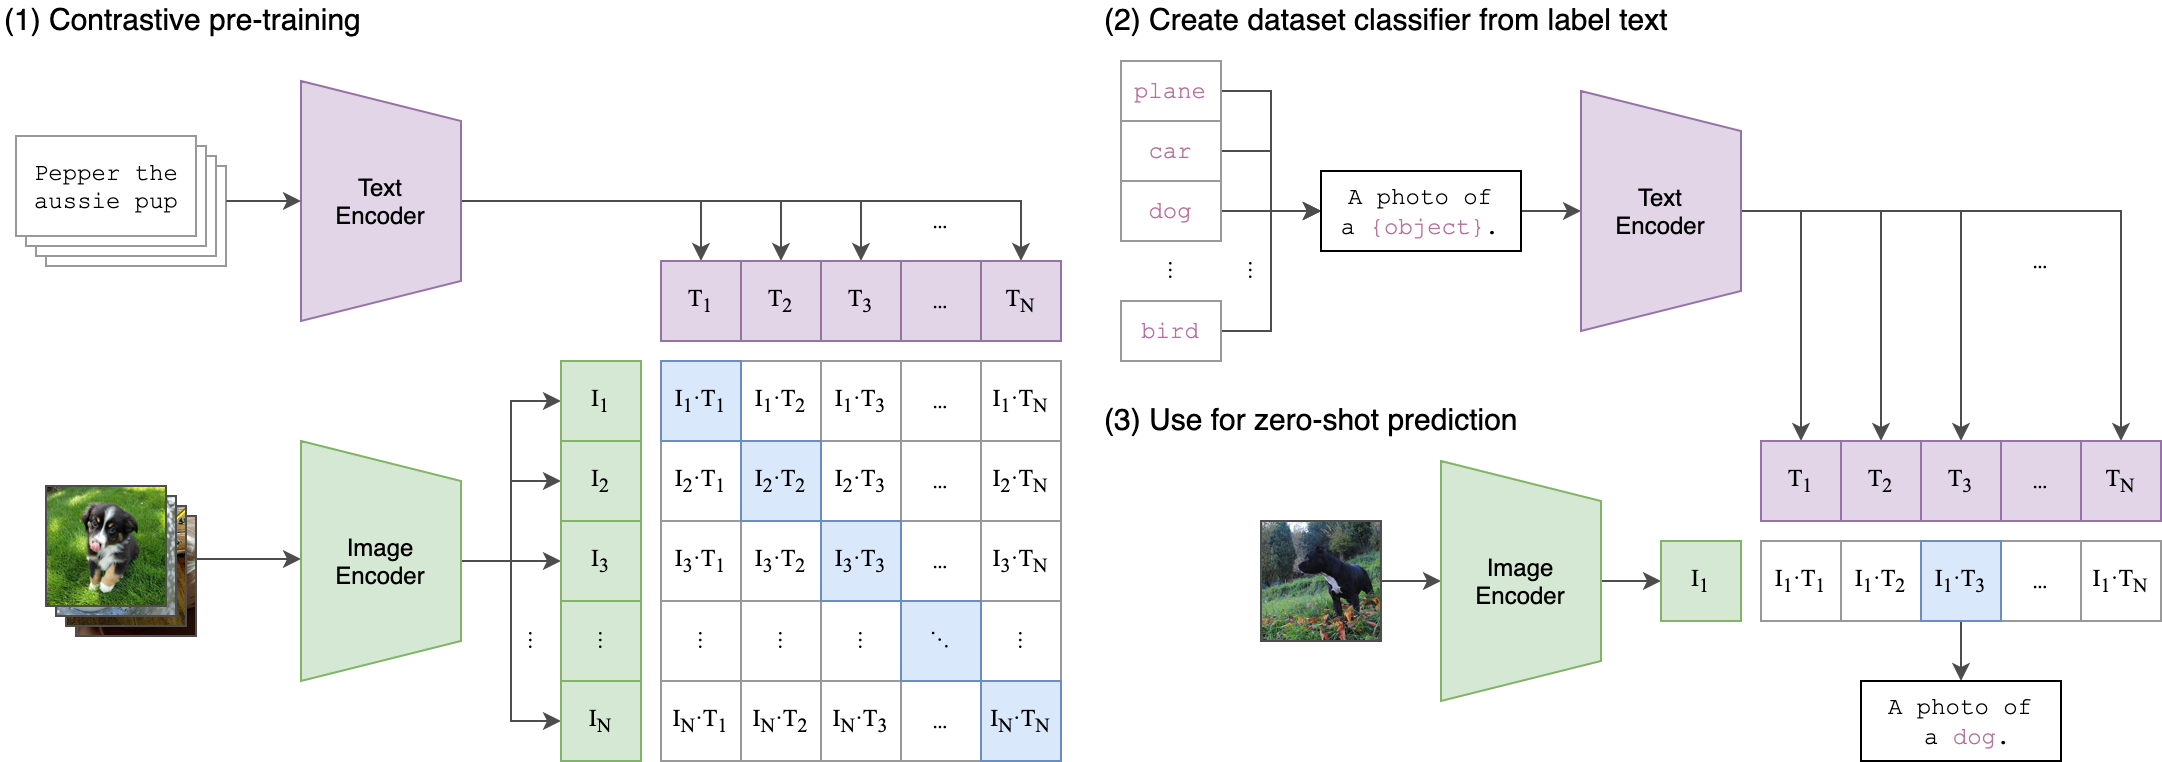
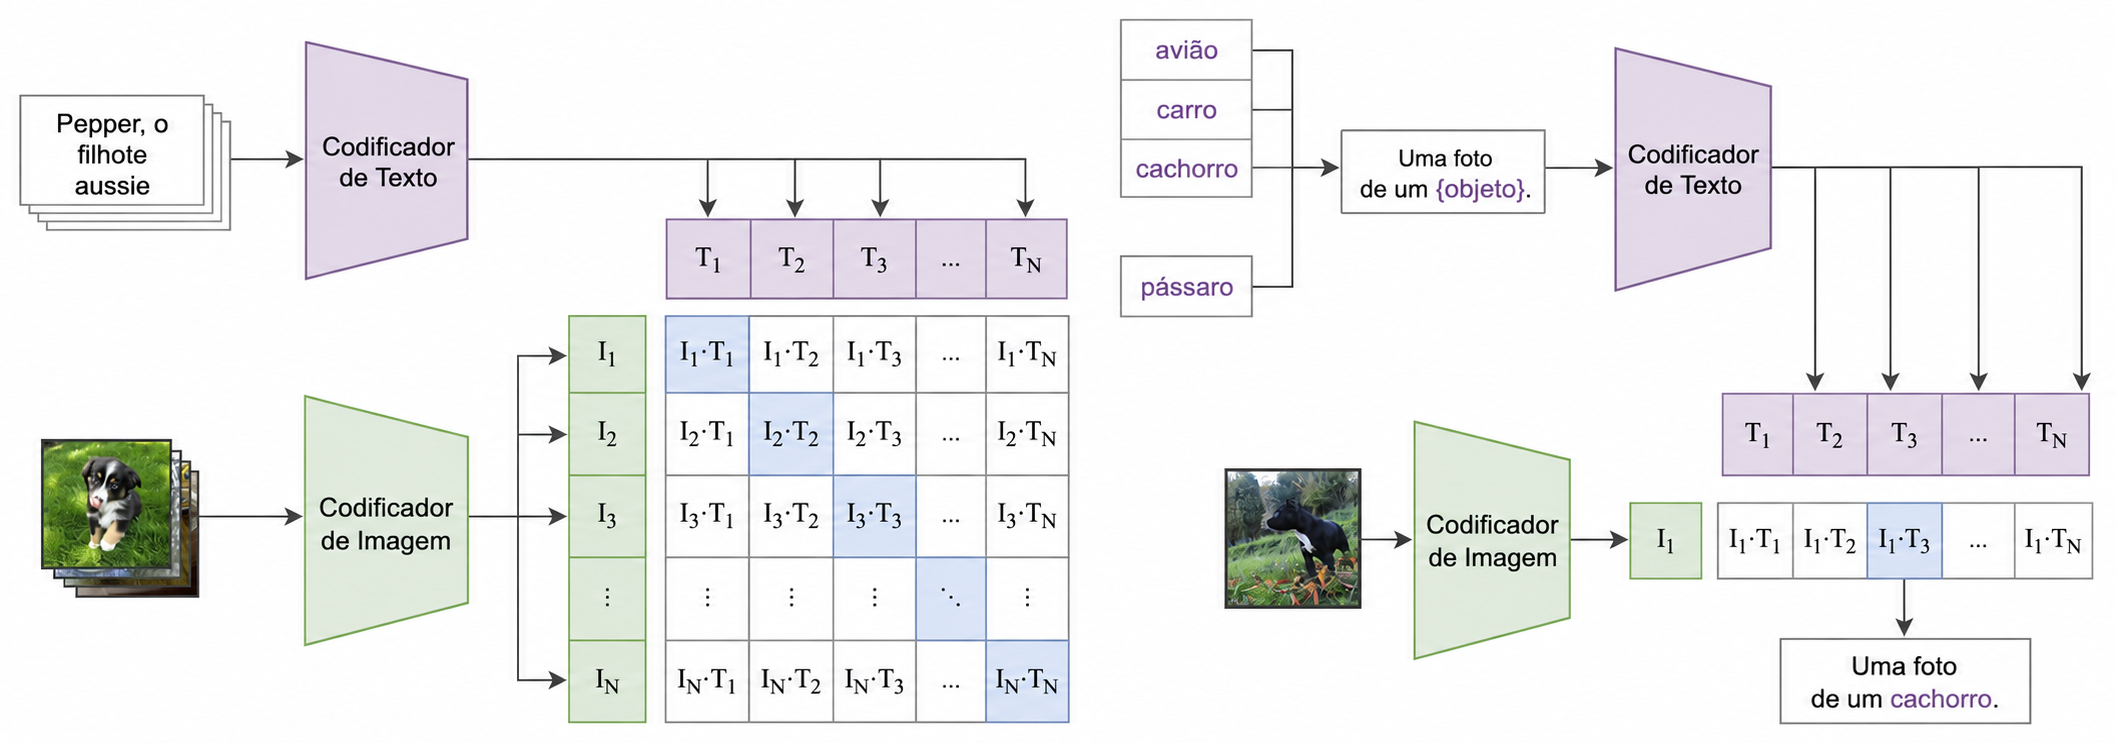
translate imgs

Changed region(s): [[0.0, 0.2476, 1.0, 1.0], [0.4991, 0.0, 0.9981, 0.4334], [0.0, 0.0, 0.4679, 0.4334]]

diff --git a/latex/cap2revisaobibliografica.tex b/latex/cap2revisaobibliografica.tex
@@ -238,9 +238,9 @@ Mais recentemente, o \textit{Vision Transformer} (ViT) \cite{dosovitskiy2021} tr
 	\centering
 	\caption{Arquitetura do \textit{Vision Transformer}.}
 	\label{fig:vit-arch}
-	\includegraphics[scale=0.5]{imagens/vit.png}
+	\includegraphics[scale=0.3]{imagens/vit.png}
 	\par\vspace{2pt}
-	{\footnotesize Fonte: \citeonline{dosovitskiy2021}.}
+	{\footnotesize Fonte: Adaptado de \citeonline{dosovitskiy2021}.}
 \end{figure*}
 
 A Figura~\ref{fig:vit-arch} ilustra a arquitetura do ViT. O processo inicia-se com a divisão da imagem de entrada em \textit{patches} retangulares de tamanho fixo, que são linearizados e projetados em vetores de dimensão constante por meio de uma projeção linear. A cada vetor resultante é somado um \textit{embedding} de posição, que codifica a localização espacial de cada \textit{patch} na imagem original, preservando assim a informação posicional que seria perdida após a linearização. Concatena-se um \textit{token} especial, representado pela posição 0, que não corresponde a nenhuma região da imagem, mas percorre todo o \textit{encoder} acumulando uma representação global da entrada, cuja representação final será utilizada para a classificação. 
@@ -265,9 +265,9 @@ O VisualBERT \cite{visualbert2019} foi um marco ao fundir representações visua
 	\centering
 	\caption{Arquitetura do VisualBERT.}
 	\label{fig:visualbert-arch}
-	\includegraphics[scale=0.32]{imagens/visualbert.png}
+	\includegraphics[scale=0.21]{imagens/visualbert.png}
 	\par\vspace{2pt}
-	{\footnotesize Fonte: \citeonline{visualbert2019}.}
+	{\footnotesize Fonte: Adaptado de \citeonline{visualbert2019}.}
 \end{figure*}
 
 Enquanto o VisualBERT utiliza a fusão precoce, integrando texto e imagem diretamente em um único \textit{Transformer}, o CLIP (\textit{Contrastive Language-Image Pre-training}) \cite{clip2021} adota a fusão tardia, processando cada modalidade separadamente antes de alinhar suas representações. O CLIP não é um modelo único, mas sim um \textit{framework} de aprendizado multimodal, com dois \textit{encoders} independentes, um visual em arquiteturas como o ViT, e outro textual, baseado na arquitetura \textit{Transformer}.
@@ -280,7 +280,7 @@ O CLIP foi treinado com aproximadamente 400 milhões de pares de imagem e texto 
 	\label{fig:clip-pipeline}
 	\includegraphics[scale=0.2]{imagens/CLIP.png}
 	\par\vspace{2pt}
-	{\footnotesize Fonte: \citeonline{clip2021}.}
+	{\footnotesize Fonte: Adaptado de \citeonline{clip2021}.}
 \end{figure*}
 
 A Figura~\ref{fig:clip-pipeline} ilustra o \textit{pipeline} do CLIP em duas fases. Na \textbf{Fase 1 (Pré-treinamento Contrastivo)}, pares de imagem e texto são processados simultaneamente, onde as imagens passam pelo \textit{Image Encoder}, que as converte em vetores de representação, enquanto as descrições textuais associadas passam pelo \textit{Text Encoder}, produzindo vetores no mesmo espaço latente. O treinamento otimiza a similaridade cosseno dos pares corretos, maximizando-a na diagonal da matriz de similaridade, enquanto penaliza os pares incorretos fora dela. Na \textbf{Fase 2 (Classificação \textit{Zero-Shot})}, uma nova imagem é codificada pelo \textit{Image Encoder} e seu vetor é comparado aos \textit{embeddings} de rótulos textuais candidatos, como \textit{``a photo of a dog''}, gerados pelo \textit{Text Encoder}. Sem nenhum treinamento adicional, o modelo seleciona a classe cuja representação textual apresenta maior similaridade com a representação visual da imagem, como ilustrado pelo exemplo do cachorro na figura. 
@@ -597,7 +597,7 @@ O trabalho realizado pelos pesquisadores da Meta AI \cite{ArticleHatefulMemesCha
 O trabalho parte da premissa de que memes são inerentemente multimodais, isto é, seu
 significado emerge da combinação entre imagem e texto, e que abordagens unimodais são insuficientes para capturar essa semântica.
 
-Os autores avaliaram uma série de modelos de fusão multimodal como \textit{baselines}, incluindo abordagens de fusão por concatenação, como o \textit{VisualBERT}, utilizando a métrica AUROC como critério principal de comparação. Os resultados demonstraram que mesmo os modelos multimodais de alto desempenho em outras tarefas ficaram significativamente abaixo do desempenho humano, estimado em 84,7\% de AUROC, evidenciando a dificuldade do problema e motivando pesquisas futuras na área.
+Os autores avaliaram uma série de modelos de fusão multimodal como \textit{baselines}, incluindo abordagens de fusão por concatenação, como o \textit{VisualBERT}, utilizando a métrica AUROC como critério principal de comparação. Os resultados demonstraram que mesmo os modelos multimodais de alto desempenho em outras tarefas ficaram significativamente abaixo do desempenho humano, estimado em 0,847 de AUROC, evidenciando a dificuldade do problema e motivando pesquisas futuras na área.
 
 \subsection{\textit{HateDetectron}: Detecção de discurso de ódio em memes por meio de abordagens de aprendizado profundo multimodal}
 

diff --git a/latex/cap3desenvolvimento.tex b/latex/cap3desenvolvimento.tex
@@ -12,7 +12,7 @@ Todo o desenvolvimento foi conduzido no Google Colab, plataforma baseada em \tex
 
 O aprendizado por transferência constitui o princípio arquitetural central desta pesquisa. Em vez de treinar um modelo do zero, os três experimentos partem dos pesos pré-treinados do modelo CLIP, transferindo o conhecimento semântico multimodal adquirido nessa escala para a tarefa específica de detecção de discurso de ódio em memes. A forma de transferência evolui progressivamente entre os experimentos.
 
-A pesquisa foi estruturada em três experimentos progressivos. No \textbf{Experimento 1} (\textit{zero-shot}), ilustrado na Figura~\ref{fig:zero-shot-arch}, o modelo é aplicado diretamente sobre o \textit{Hateful Memes Dataset}, sem qualquer ajuste fino. A imagem do meme e os \textit{prompts} textuais candidatos são processados em paralelo por dois \textit{encoders} independentes, um \textit{Vision Transformer} (ViT) para o conteúdo visual e um Transformer CLIP para o conteúdo textual, produzindo \textit{embeddings} em um espaço semântico compartilhado. A similaridade cosseno entre esses \textit{embeddings} alimenta uma função \textit{Softmax}, gerando probabilidades normalizadas por classe. Sobre essas probabilidades operam dois caminhos complementares: (i)~a \textbf{classificação binária}, avaliada por Acurácia, F1 e AUCROC; e (ii)~o \textbf{Classificador Fuzzy Unificado}, que converte valores contínuos de probabilidade em cinco categorias linguísticas de pertinência, introduzindo interpretabilidade gradual e atenuando o impacto de falsos positivos em regiões de alta entropia. O experimento inclui ainda um estudo de ablação que compara isoladamente as modalidades de texto, imagem e a combinação multimodal.
+A pesquisa foi estruturada em três experimentos progressivos. No \textbf{Experimento 1} (\textit{zero-shot}), ilustrado na Figura~\ref{fig:zero-shot-arch}, o modelo é aplicado diretamente sobre o \textit{Hateful Memes Dataset}, sem qualquer ajuste fino. A imagem do meme e os \textit{prompts} textuais candidatos são processados em paralelo por dois \textit{encoders} independentes, um \textit{Vision Transformer} (ViT) para o conteúdo visual e um Transformer CLIP para o conteúdo textual, produzindo \textit{embeddings} em um espaço semântico compartilhado. A similaridade cosseno entre esses \textit{embeddings} alimenta uma função \textit{Softmax}, gerando probabilidades normalizadas por classe. Sobre essas probabilidades operam dois caminhos complementares: (i)~a \textbf{classificação binária}, avaliada por acurácia, F1 e AUCROC; e (ii)~o \textbf{Classificador Fuzzy Unificado}, que converte valores contínuos de probabilidade em cinco categorias linguísticas de pertinência, introduzindo interpretabilidade gradual e atenuando o impacto de falsos positivos em regiões de alta entropia. O experimento inclui ainda um estudo de ablação que compara isoladamente as modalidades de texto, imagem e a combinação multimodal.
 
 \begin{figure*}[!htbp]
     \centering
@@ -26,7 +26,7 @@ A pesquisa foi estruturada em três experimentos progressivos. No \textbf{Experi
     \end{minipage}
 \end{figure*}
 
-No \textbf{Experimento 2} (pré-processamento), ilustrado na Figura~\ref{fig:pre-process-arch}, a arquitetura é expandida com uma etapa de agrupamento semântico não supervisionado executada antes do treinamento. \textit{Embeddings} textuais e visuais dos memes de treino são agrupados separadamente pelo DBSCAN, gerando índices de \textit{cluster} para cada modalidade. Esses índices são incorporados como entradas adicionais ao \textbf{MultimodalModel}, um classificador supervisionado construído sobre o CLIP congelado que aprende representações compactas de cada grupo semântico. A saída opera nos mesmos dois caminhos complementares do Experimento~1: classificação binária avaliada por Acurácia, AUCROC e F1, e o \textbf{Classificador Fuzzy Unificado} com cinco categorias de ódio. O experimento também inclui um estudo de ablação com cinco configurações que isolam a contribuição incremental de cada componente, e uma interface de demonstração via \textit{Gradio} integrada ao \textit{Google Vision} OCR.
+No \textbf{Experimento 2} (pré-processamento), ilustrado na Figura~\ref{fig:pre-process-arch}, a arquitetura é expandida com uma etapa de agrupamento semântico não supervisionado executada antes do treinamento. \textit{Embeddings} textuais e visuais dos memes de treino são agrupados separadamente pelo DBSCAN, gerando índices de \textit{cluster} para cada modalidade. Esses índices são incorporados como entradas adicionais ao \textbf{MultimodalModel}, um classificador supervisionado construído sobre o CLIP congelado que aprende representações compactas de cada grupo semântico. A saída opera nos mesmos dois caminhos complementares do Experimento~1: classificação binária avaliada por acurácia, AUCROC e F1, e o \textbf{Classificador Fuzzy Unificado} com cinco categorias de ódio. O experimento também inclui um estudo de ablação com cinco configurações que isolam a contribuição incremental de cada componente, e uma interface de demonstração via \textit{Gradio} integrada ao \textit{Google Vision} OCR.
 
 \begin{figure*}[!htbp]
     \centering
@@ -40,7 +40,7 @@ No \textbf{Experimento 2} (pré-processamento), ilustrado na Figura~\ref{fig:pre
     \end{minipage}
 \end{figure*}
 
-No \textbf{Experimento 3} (\textit{final-shot}), ilustrado na Figura~\ref{fig:final-shot-arch}, é implementado o \textit{HateCLIPper} com adaptações como \textit{pipeline} principal. As representações visuais e textuais extraídas pelos encoders do CLIP são projetadas para um espaço comum e fundidas pela \textbf{FIM} (\textit{Feature Interaction Matrix}), que captura correlações entre cada dimensão das duas modalidades por meio de um produto externo. O classificador opera sobre essa representação conjunta e conta com cabeças auxiliares por modalidade, cuja as pontuações individuais alimentam o \textbf{Sistema Fuzzy Mamdani} para graduação contínua do ódio em cinco níveis. A saída opera nos mesmos dois caminhos dos experimentos anteriores: classificação binária avaliada por AUROC, Acurácia e F1-Score, e a graduação fuzzy. O experimento inclui também um estudo de ablação com quatro modos de fusão e uma interface de demonstração via \textit{Gradio} \cite{abid2019} integrada ao \textit{Google Vision} OCR.
+No \textbf{Experimento 3} (\textit{final-shot}), ilustrado na Figura~\ref{fig:final-shot-arch}, é implementado o \textit{HateCLIPper} com adaptações como \textit{pipeline} principal. As representações visuais e textuais extraídas pelos encoders do CLIP são projetadas para um espaço comum e fundidas pela \textbf{FIM} (\textit{Feature Interaction Matrix}), que captura correlações entre cada dimensão das duas modalidades por meio de um produto externo. O classificador opera sobre essa representação conjunta e conta com cabeças auxiliares por modalidade, cuja as pontuações individuais alimentam o \textbf{Sistema Fuzzy Mamdani} para graduação contínua do ódio em cinco níveis. A saída opera nos mesmos dois caminhos dos experimentos anteriores: classificação binária avaliada por AUROC, acurácia e F1-Score, e a graduação fuzzy. O experimento inclui também um estudo de ablação com quatro modos de fusão e uma interface de demonstração via \textit{Gradio} \cite{abid2019} integrada ao \textit{Google Vision} OCR.
 
 \begin{figure*}[!htbp]
     \centering
@@ -140,7 +140,7 @@ Um primeiro teste foi feito para fins de visualização, no qual uma amostra é 
 
 Para realizar a avaliação em larga escala do modelo em cenário \textit{zero-shot}, implementou-se uma rotina de processamento em lote sobre o conjunto \texttt{test\_unseen}. O script lê o arquivo JSON Lines e itera sobre cada meme, extraindo o caminho da imagem e seu texto. Cada imagem é pré-processada, codificada pelo \textit{encoder} visual do CLIP e normalizada. A similaridade entre o \textit{embedding} visual e os \textit{embeddings} textuais dos \textit{prompts} \textit{hateful} e \textit{non-hateful} é calculada por produto interno, escalonada pelo parâmetro de temperatura e convertida em probabilidades via \textit{Softmax}; a classe predita é então definida pela função \textit{argmax}. Ao final, as predições são consolidadas em um \textit{DataFrame} e exportadas para o arquivo \texttt{resultados\_zero\_shot.csv}, viabilizando o cálculo posterior de métricas sem necessidade de reprocessamento das imagens.
 
-Para quantificar a contribuição de cada modalidade isoladamente para o estudo de ablação, são conduzidas duas variantes adicionais: (i)~\textbf{somente imagem}, em que os \textit{prompts} textuais são substituídos por versões genéricas sem mencionar o conteúdo do meme, eliminando o sinal textual da comparação; e (ii)~\textbf{somente texto}, em que o texto do meme é codificado diretamente pelo \textit{encoder} textual do CLIP e comparado aos \textit{prompts} de classificação, sem envolver a imagem na comparação. Os resultados das três configurações, imagem, texto e multimodal, são comparados em Acurácia, F1-Score e AUROC.
+Para quantificar a contribuição de cada modalidade isoladamente para o estudo de ablação, são conduzidas duas variantes adicionais: (i)~\textbf{somente imagem}, em que os \textit{prompts} textuais são substituídos por versões genéricas sem mencionar o conteúdo do meme, eliminando o sinal textual da comparação; e (ii)~\textbf{somente texto}, em que o texto do meme é codificado diretamente pelo \textit{encoder} textual do CLIP e comparado aos \textit{prompts} de classificação, sem envolver a imagem na comparação. Os resultados das três configurações, imagem, texto e multimodal, são comparados em acurácia, F1-Score e AUROC.
 
 Aplicado sobre as probabilidades contínuas geradas pelo CLIP, o classificador interpreta a incerteza do modelo em vez de impor um limiar binário rígido. O pipeline compõe-se de três etapas: (i)~\textbf{fuzzificação}, que mapeia a probabilidade de ódio em cinco conjuntos linguísticos por funções de pertinência triangulares: \textit{Nenhum Ódio}, \textit{Pouco Ódio}, \textit{Ambiguidade/Moderado}, \textit{Ódio} e \textit{Alto Grau de Ódio}; (ii)~\textbf{inferência contextual com entropia de Shannon}, que ajusta os graus de pertinência com base na incerteza da predição, quando a entropia supera um limiar configurável, a pertinência a \textit{Ambiguidade/Moderado} é reforçada e as demais são atenuadas, evitando classificações precipitadas em memes com alta tensão semântica entre texto e imagem; e (iii)~\textbf{defuzzificação por centroide}, que converte a distribuição de pertinência em um \textit{score} contínuo único de intensidade de ódio pelo método do centro de gravidade. O rótulo binário final é atribuído quando o \textit{score} defuzzificado corresponde às categorias \textit{Ódio} ou \textit{Alto Grau de Ódio}.
 

diff --git a/latex/cap1introducao.tex b/latex/cap1introducao.tex
@@ -31,7 +31,7 @@ Identificar discurso de ódio em memes, utilizando o modelo multimodal CLIP (\te
 \begin{itemize}
     \item \textbf{Revisar} abordagens existentes de classificação de discurso de ódio em memes com técnicas multimodais.
     \item \textbf{Desenvolver} uma arquitetura de aprendizado multimodal para processar e classificar memes com base em componentes visuais e textuais.
-    \item \textbf{Avaliar} o desempenho do modelo por meio de métricas como acurácia, precisão, revocação, F1-score e matriz de confusão, explorando lógica \textit{fuzzy} para interpretação gradual do ódio.
+    \item \textbf{Avaliar} o desempenho do modelo por meio de métricas como acurácia, precisão, revocação, F1-score, matriz de confusão e AUROC, explorando lógica \textit{fuzzy} para interpretação gradual do ódio.
 \end{itemize}
 
 